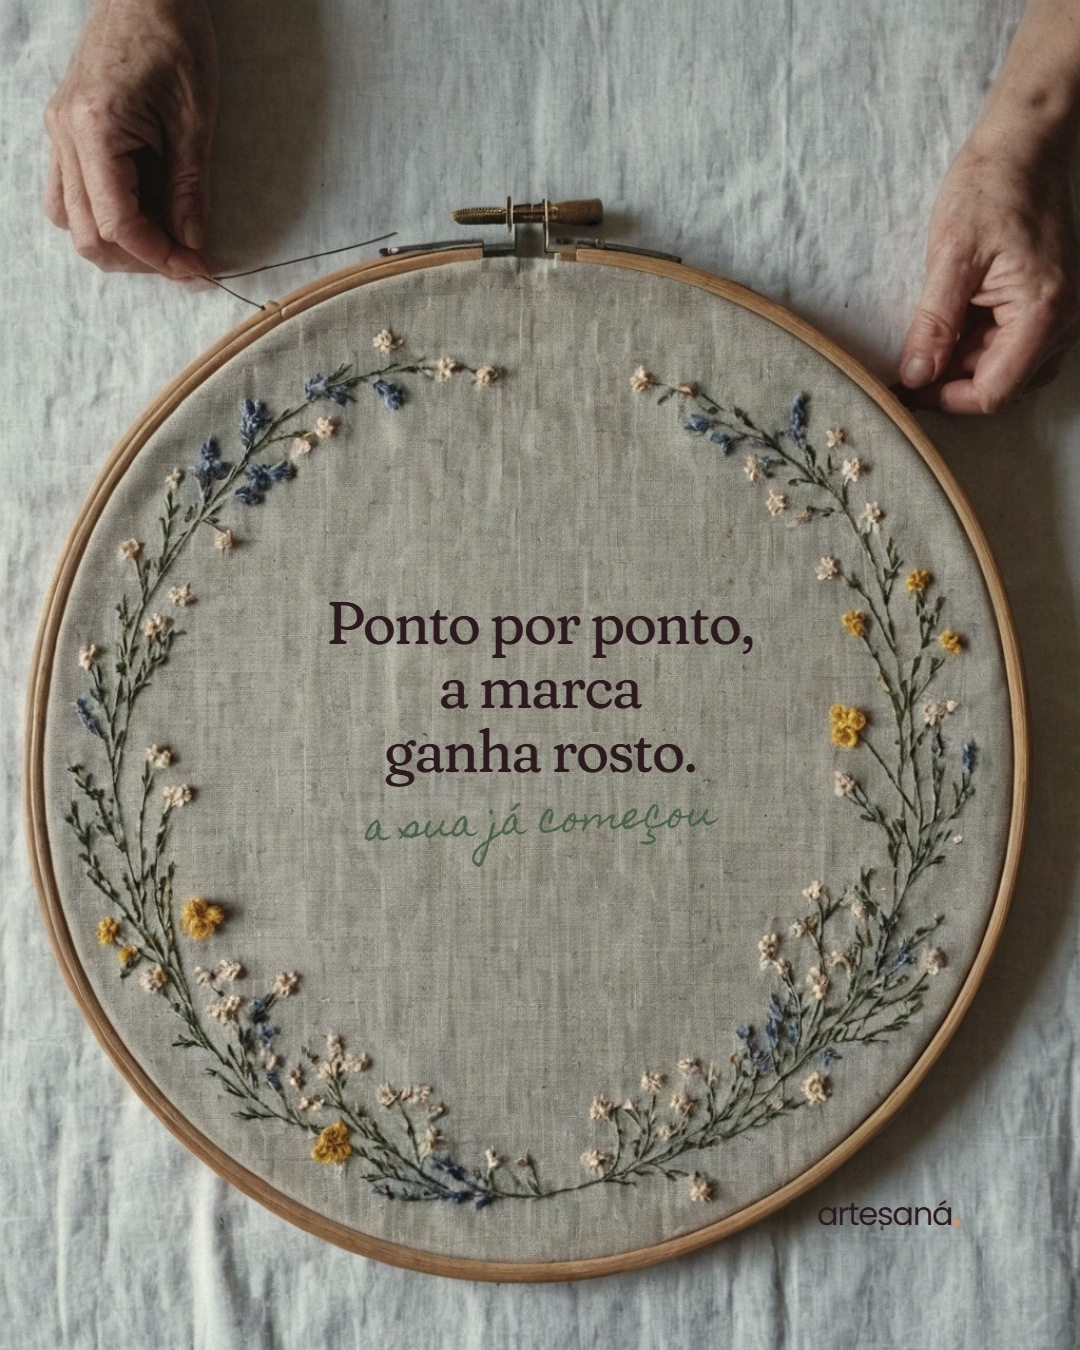
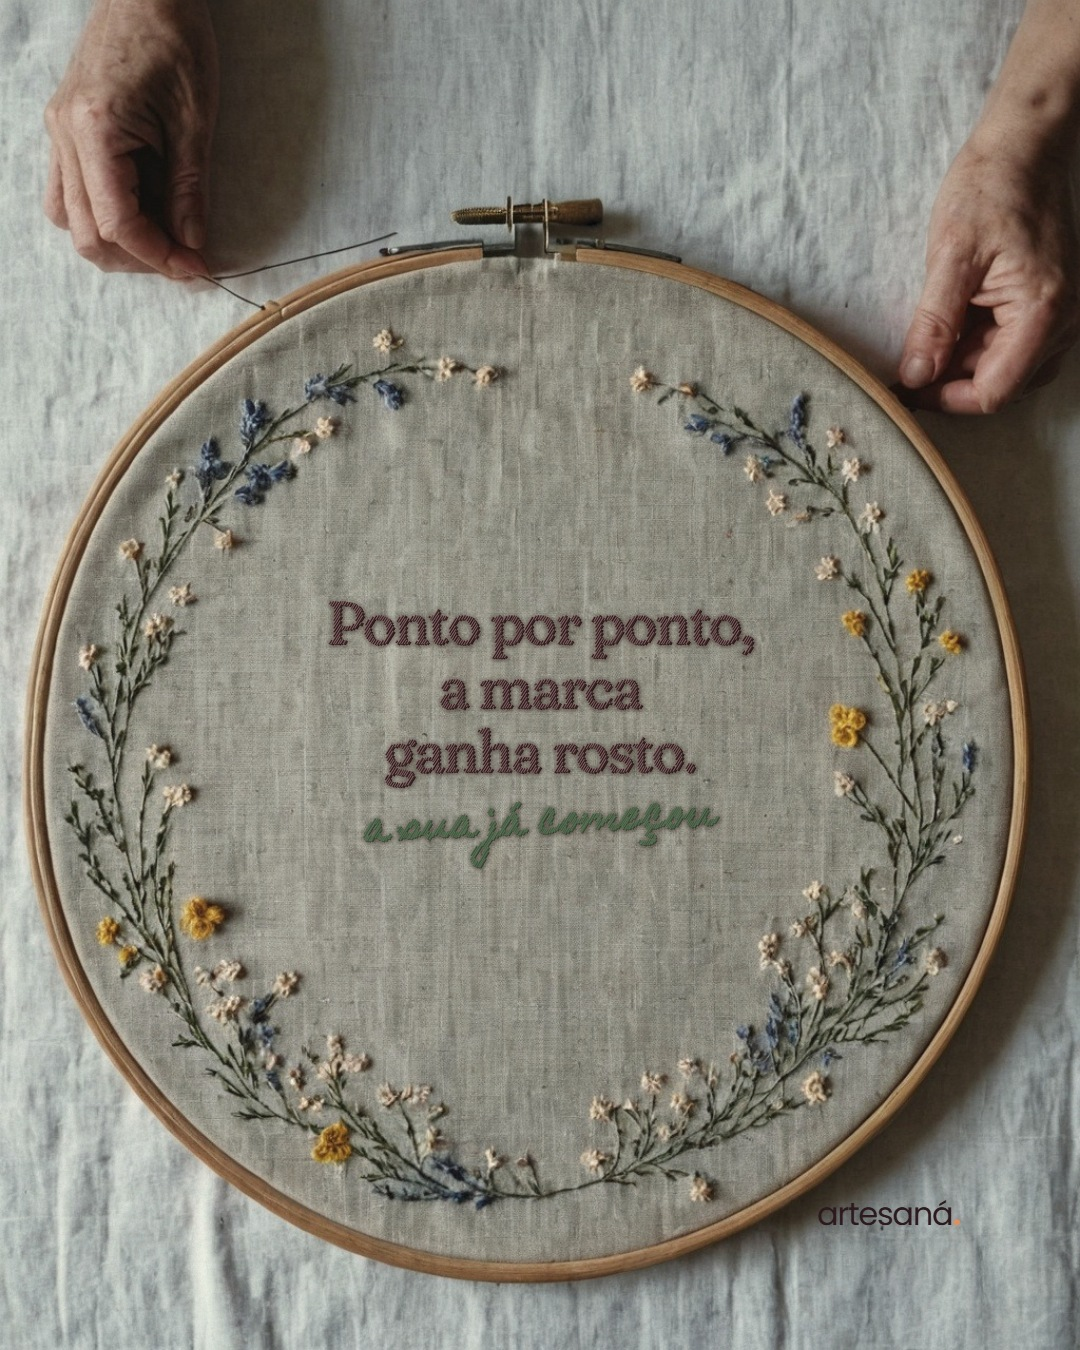
feat(marketing): frase da peça do bordado sai bordada no linho
scripts/bordado.py sintetiza ponto cheio a partir da máscara do texto
renderizada pelo próprio modelo HTML: pontos inclinados um a um, com
variação de brilho, flanco iluminado, sombra no tecido e vinco em volta.
gen-instagram.py aplica nas peças listadas em BORDADOS.

Changed region(s): [[0.3056, 0.4356, 0.7028, 0.6533]]

diff --git a/marketing/instagram/index.html b/marketing/instagram/index.html
@@ -128,7 +128,7 @@ Grátis na versão beta. O link está na bio.
       <div class="imagens">
         <figure>
           <figcaption>Imagem</figcaption>
-          <img src="./atelie-3.jpg" alt="Bastidor grande de bordado visto de cima, com uma guirlanda de flores miúdas bordada no linho e duas mãos passando a linha na agulha. Dentro da guirlanda, o texto: Ponto por ponto, a marca ganha rosto. A sua já começou." loading="lazy">
+          <img src="./atelie-3.jpg" alt="Bastidor grande de bordado visto de cima, com uma guirlanda de flores miúdas bordada no linho e duas mãos passando a linha na agulha. Dentro da guirlanda, bordado em linha escura e verde: Ponto por ponto, a marca ganha rosto. A sua já começou." loading="lazy">
           <div class="acoes"><a class="botao" href="./atelie-3.jpg" download="artesana-atelie-3.jpg">Baixar</a></div>
         </figure>
       </div>
@@ -145,7 +145,7 @@ Grátis na versão beta. O link está na bio.
       <div class="acoes"><button class="botao" type="button" data-copiar="legenda-3">Copiar legenda</button></div>
       <details>
         <summary>Texto alternativo das imagens</summary>
-        <pre class="caixa" id="alt-3-0">Bastidor grande de bordado visto de cima, com uma guirlanda de flores miúdas bordada no linho e duas mãos passando a linha na agulha. Dentro da guirlanda, o texto: Ponto por ponto, a marca ganha rosto. A sua já começou.</pre>
+        <pre class="caixa" id="alt-3-0">Bastidor grande de bordado visto de cima, com uma guirlanda de flores miúdas bordada no linho e duas mãos passando a linha na agulha. Dentro da guirlanda, bordado em linha escura e verde: Ponto por ponto, a marca ganha rosto. A sua já começou.</pre>
       </details>
     </article>
     <article class="peca" id="p4">

diff --git a/scripts/bordado.py b/scripts/bordado.py
@@ -1,0 +1,138 @@
+"""Texto bordado: transforma uma máscara de texto em ponto cheio (satin) com linha, relevo e sombra no tecido.
+
+A máscara vem do próprio modelo HTML (mesma fonte, mesmo lugar), renderizada em escala maior. Cada letra é
+preenchida por pontos paralelos inclinados, um a um, com pequenas irregularidades de linha de verdade:
+comprimento, posição e brilho variam ponto a ponto. Por cima, um brilho no flanco voltado pra luz e uma
+sombra no flanco oposto dão o volume do fio; embaixo, uma sombra suave assenta o bordado no linho.
+
+bordar(base, camadas) -> PIL.Image
+  base:    imagem RGB da peça sem o texto
+  camadas: lista de (mascara L na escala ESCALA, cor da linha "#rrggbb")
+"""
+import math
+import random
+
+import numpy as np
+from PIL import Image, ImageChops, ImageDraw, ImageFilter
+
+ESCALA = 3           # a máscara chega nesta escala; o desenho é feito nela e reduzido no fim
+ANGULO = -58         # inclinação dos pontos, em graus (negativo = sobe pra direita)
+ESPACO = 2.1         # distância entre pontos, em px finais
+LUZ = (-0.6, -0.8)   # de onde vem a luz (cima, esquerda)
+
+
+def _cor(hexa):
+    return tuple(int(hexa[i:i + 2], 16) for i in (1, 3, 5))
+
+
+def _mistura(c, alvo, t):
+    return tuple(int(round(a + (b - a) * t)) for a, b in zip(c, alvo))
+
+
+def _pontos(mascara: np.ndarray, espaco: float, angulo: float, rng: random.Random):
+    """Segmentos (x0, y0, x1, y1) dos pontos que cobrem a máscara, em px da escala da máscara."""
+    alt, larg = mascara.shape
+    th = math.radians(angulo)
+    u = (math.cos(th), math.sin(th))          # ao longo do ponto
+    n = (-math.sin(th), math.cos(th))         # através dos pontos
+    diag = math.hypot(larg, alt)
+    cx, cy = larg / 2, alt / 2
+    passo = 1.0
+    ts = np.arange(-diag / 2, diag / 2, passo)
+    saida = []
+    k = -diag / 2
+    while k < diag / 2:
+        ox, oy = cx + k * n[0], cy + k * n[1]
+        xs = np.rint(ox + ts * u[0]).astype(int)
+        ys = np.rint(oy + ts * u[1]).astype(int)
+        dentro = (xs >= 0) & (xs < larg) & (ys >= 0) & (ys < alt)
+        cheio = np.zeros(len(ts), bool)
+        cheio[dentro] = mascara[ys[dentro], xs[dentro]]
+        # trechos contínuos, tolerando buracos de até 2 px (o serrilhado da máscara)
+        idx = np.flatnonzero(cheio)
+        if idx.size:
+            cortes = np.flatnonzero(np.diff(idx) > 3)
+            inicios = np.concatenate(([idx[0]], idx[cortes + 1]))
+            fins = np.concatenate((idx[cortes], [idx[-1]]))
+            for a, b in zip(inicios, fins):
+                if b - a < 2:
+                    continue
+                sobra = rng.uniform(0.6, 1.6) * ESCALA * 0.5       # o fio vira um pouco além da borda
+                j = rng.gauss(0, 0.28) * ESCALA * 0.5              # pequeno desvio lateral
+                t0, t1 = ts[a] - sobra, ts[b] + sobra
+                saida.append((ox + t0 * u[0] + j * n[0], oy + t0 * u[1] + j * n[1],
+                              ox + t1 * u[0] + j * n[0], oy + t1 * u[1] + j * n[1]))
+        k += espaco * ESCALA * rng.uniform(0.94, 1.06)
+    return saida, u, n
+
+
+def _camada_fios(tamanho, segmentos, n, cor, rng: random.Random, espaco: float):
+    """Desenha os pontos como fios com volume: flanco escuro, corpo e brilho."""
+    larg, alt = tamanho
+    camada = Image.new("RGBA", (larg, alt), (0, 0, 0, 0))
+    d = ImageDraw.Draw(camada)
+    w = max(2, int(round(espaco * ESCALA * 1.25)))
+    luz = LUZ[0] * -n[0] + LUZ[1] * -n[1]      # quanto o flanco -n encara a luz
+    claro = _mistura(cor, (255, 246, 236), 0.22 + 0.14 * max(luz, 0))
+    escuro = _mistura(cor, (0, 0, 0), 0.34)
+    for (x0, y0, x1, y1) in segmentos:
+        var = rng.uniform(-0.05, 0.05)         # cada ponto com o seu brilho
+        corpo = _mistura(cor, (255, 255, 255) if var > 0 else (0, 0, 0), abs(var))
+        dx, dy = n[0] * w * 0.3, n[1] * w * 0.3
+        d.line([(x0 + dx, y0 + dy), (x1 + dx, y1 + dy)], fill=escuro + (255,), width=w)
+        d.line([(x0, y0), (x1, y1)], fill=corpo + (255,), width=max(1, int(w * 0.86)))
+        d.line([(x0 - dx, y0 - dy), (x1 - dx, y1 - dy)], fill=claro + (255,), width=max(1, int(w * 0.28)))
+    return camada
+
+
+def _fibra(camada: Image.Image, rng: random.Random):
+    """Textura fina de fibra ao longo do fio, sem mexer no alfa."""
+    larg, alt = camada.size
+    semente = np.random.default_rng(rng.randrange(1 << 30))
+    ruido = semente.normal(1.0, 0.045, (alt, larg)).astype(np.float32)
+    rgba = np.asarray(camada).astype(np.float32)
+    rgba[..., :3] = np.clip(rgba[..., :3] * ruido[..., None], 0, 255)
+    return Image.fromarray(rgba.astype(np.uint8), "RGBA")
+
+
+def bordar(base: Image.Image, camadas, semente: int = 7) -> Image.Image:
+    """camadas: (mascara, cor) ou (mascara, cor, opções) com 'engrossar' (px na escala) e 'espaco' (px finais)."""
+    rng = random.Random(semente)
+    larg, alt = base.size
+    tam = (larg * ESCALA, alt * ESCALA)
+    saida = base.convert("RGBA")
+    for item in camadas:
+        mascara_img, hexa = item[0], item[1]
+        opcoes = item[2] if len(item) > 2 else {}
+        if mascara_img.size != tam:
+            mascara_img = mascara_img.resize(tam, Image.LANCZOS)
+        mascara_img = mascara_img.convert("L")
+        if opcoes.get("engrossar"):
+            mascara_img = mascara_img.filter(ImageFilter.MaxFilter(opcoes["engrossar"] * 2 + 1))
+        espaco = opcoes.get("espaco", ESPACO)
+        mascara = np.asarray(mascara_img) > 110
+        if not mascara.any():
+            continue
+        cor = _cor(hexa)
+        segmentos, u, n = _pontos(mascara, espaco, ANGULO, rng)
+        fios = _fibra(_camada_fios(tam, segmentos, n, cor, rng, espaco), rng)
+
+        # sombra do relevo no tecido: a silhueta do bordado, deslocada com a luz, borrada
+        alfa = fios.getchannel("A").filter(ImageFilter.MaxFilter(3))
+        sombra_alfa = alfa.filter(ImageFilter.GaussianBlur(2.2 * ESCALA))
+        sombra = Image.new("RGBA", tam, (40, 22, 18, 0))
+        sombra.putalpha(sombra_alfa.point(lambda v: int(v * 0.42)))
+        desloc = (int(-LUZ[0] * 1.6 * ESCALA), int(-LUZ[1] * 1.6 * ESCALA))
+        sombra = ImageChops.offset(sombra, *desloc)
+
+        # o tecido afunda um pouco rente ao bordado: escurecimento estreito em volta
+        borda = ImageChops.subtract(alfa.filter(ImageFilter.MaxFilter(7)), alfa).filter(ImageFilter.GaussianBlur(1.2 * ESCALA))
+        vinco = Image.new("RGBA", tam, (60, 40, 30, 0))
+        vinco.putalpha(borda.point(lambda v: int(v * 0.22)))
+
+        for camada in (sombra, vinco, fios):
+            camada = camada.resize((larg, alt), Image.LANCZOS)
+            if camada is fios:
+                camada = camada.filter(ImageFilter.GaussianBlur(0.35))
+            saida = Image.alpha_composite(saida, camada)
+    return saida.convert("RGB")

diff --git a/scripts/gen-instagram.py b/scripts/gen-instagram.py
@@ -22,6 +22,9 @@ import numpy as np
 from PIL import Image, ImageDraw, ImageFilter
 from playwright.sync_api import sync_playwright
 
+sys.path.insert(0, str(Path(__file__).resolve().parent))
+import bordado  # noqa: E402
+
 RAIZ = Path(__file__).resolve().parent.parent
 PASTA = RAIZ / "marketing" / "instagram"
 FOTOS = PASTA / "fotos"
@@ -51,6 +54,11 @@ CREDITOS = {
     5682670: ("carrossel-5", "Anna Shvets", "https://www.pexels.com/photo/a-woman-holding-a-bottle-dropper-5682670/"),
     8100788: ("anvisa", "Polina", "https://www.pexels.com/photo/photo-of-products-on-brown-surface-8100788/"),
     7330711: ("anuncio, anuncio-stories", "MART  PRODUCTION", "https://www.pexels.com/photo/woman-using-a-smartphone-by-the-window-7330711/"),
+}
+
+# textos que saem bordados no tecido em vez de impressos: peça -> [(seletor, cor da linha, opções)]
+BORDADOS = {
+    "atelie-3": [(".frase", "#3D2325", {}), (".recado", "#43593F", {"engrossar": 2, "espaco": 1.7})],
 }
 
 # celulares com tela em branco que recebem uma tela real do app:
@@ -151,6 +159,31 @@ def conferir_margem(page, nome: str, larg: int, alt: int) -> None:
     print(f"  margem de segurança: texto mais próximo da borda a {folga:.0f}px")
 
 
+def com_bordado(navegador, page, url, nome, larg, alt):
+    """A peça sem os textos bordados, mais uma máscara de cada texto em escala maior, entregues ao bordado."""
+    seletores = ", ".join(sel for sel, _c, _o in BORDADOS[nome])
+    page.evaluate("(sel) => document.querySelectorAll(sel).forEach(e => e.style.visibility = 'hidden')", seletores)
+    base_img = Image.open(io.BytesIO(page.screenshot(clip={"x": 0, "y": 0, "width": larg, "height": alt}))).convert("RGB")
+    grande = navegador.new_page(viewport={"width": larg, "height": alt}, device_scale_factor=bordado.ESCALA)
+    grande.goto(url, wait_until="networkidle")
+    grande.evaluate("document.fonts.ready")
+    grande.wait_for_timeout(300)
+    grande.evaluate("""() => {
+        for (const e of [document.documentElement, document.body, document.querySelector('.peca')]) e.style.background = 'transparent';
+        document.querySelectorAll('.janela, .papel, .veu, .marca').forEach(e => e.style.visibility = 'hidden');
+    }""")
+    camadas = []
+    for sel, cor, opcoes in BORDADOS[nome]:
+        grande.evaluate("""([todos, sel]) => document.querySelectorAll(todos).forEach(e => {
+            e.style.visibility = e.matches(sel) ? 'visible' : 'hidden'; e.style.color = '#000'; e.style.textShadow = 'none'; })""", [seletores, sel])
+        mascara = Image.open(io.BytesIO(grande.screenshot(omit_background=True))).getchannel("A")
+        camadas.append((mascara, cor, opcoes))
+    grande.close()
+    img = bordado.bordar(base_img, camadas)
+    print(f"  {nome}: {len(camadas)} textos bordados")
+    return img
+
+
 def renderizar(filtro: str) -> None:
     socketserver.TCPServer.allow_reuse_address = True
     srv = socketserver.TCPServer(("127.0.0.1", 0), functools.partial(_Quieto, directory=str(RAIZ)))
@@ -170,8 +203,11 @@ def renderizar(filtro: str) -> None:
             assert not falhas, f"{nome}: arquivo não carregou: {falhas}"
             if nome.startswith("atelie"):
                 conferir_margem(page, nome, larg, alt)
-            png = page.screenshot(clip={"x": 0, "y": 0, "width": larg, "height": alt})
-            img = Image.open(io.BytesIO(png)).convert("RGB")
+            if nome in BORDADOS:
+                img = com_bordado(b, page, f"{base}/{nome}.html", nome, larg, alt)
+            else:
+                png = page.screenshot(clip={"x": 0, "y": 0, "width": larg, "height": alt})
+                img = Image.open(io.BytesIO(png)).convert("RGB")
             img.save(PASTA / f"{nome}.jpg", quality=93, optimize=True)
             print(f"{nome}.jpg", img.size, (PASTA / f"{nome}.jpg").stat().st_size // 1024, "KB")
             page.close()

diff --git a/marketing/instagram/legendas.md b/marketing/instagram/legendas.md
@@ -72,7 +72,7 @@ Grátis na versão beta. O link está na bio.
 
 **Texto alternativo**
 
-- `atelie-3.jpg`: Bastidor grande de bordado visto de cima, com uma guirlanda de flores miúdas bordada no linho e duas mãos passando a linha na agulha. Dentro da guirlanda, o texto: Ponto por ponto, a marca ganha rosto. A sua já começou.
+- `atelie-3.jpg`: Bastidor grande de bordado visto de cima, com uma guirlanda de flores miúdas bordada no linho e duas mãos passando a linha na agulha. Dentro da guirlanda, bordado em linha escura e verde: Ponto por ponto, a marca ganha rosto. A sua já começou.
 
 ---
 
